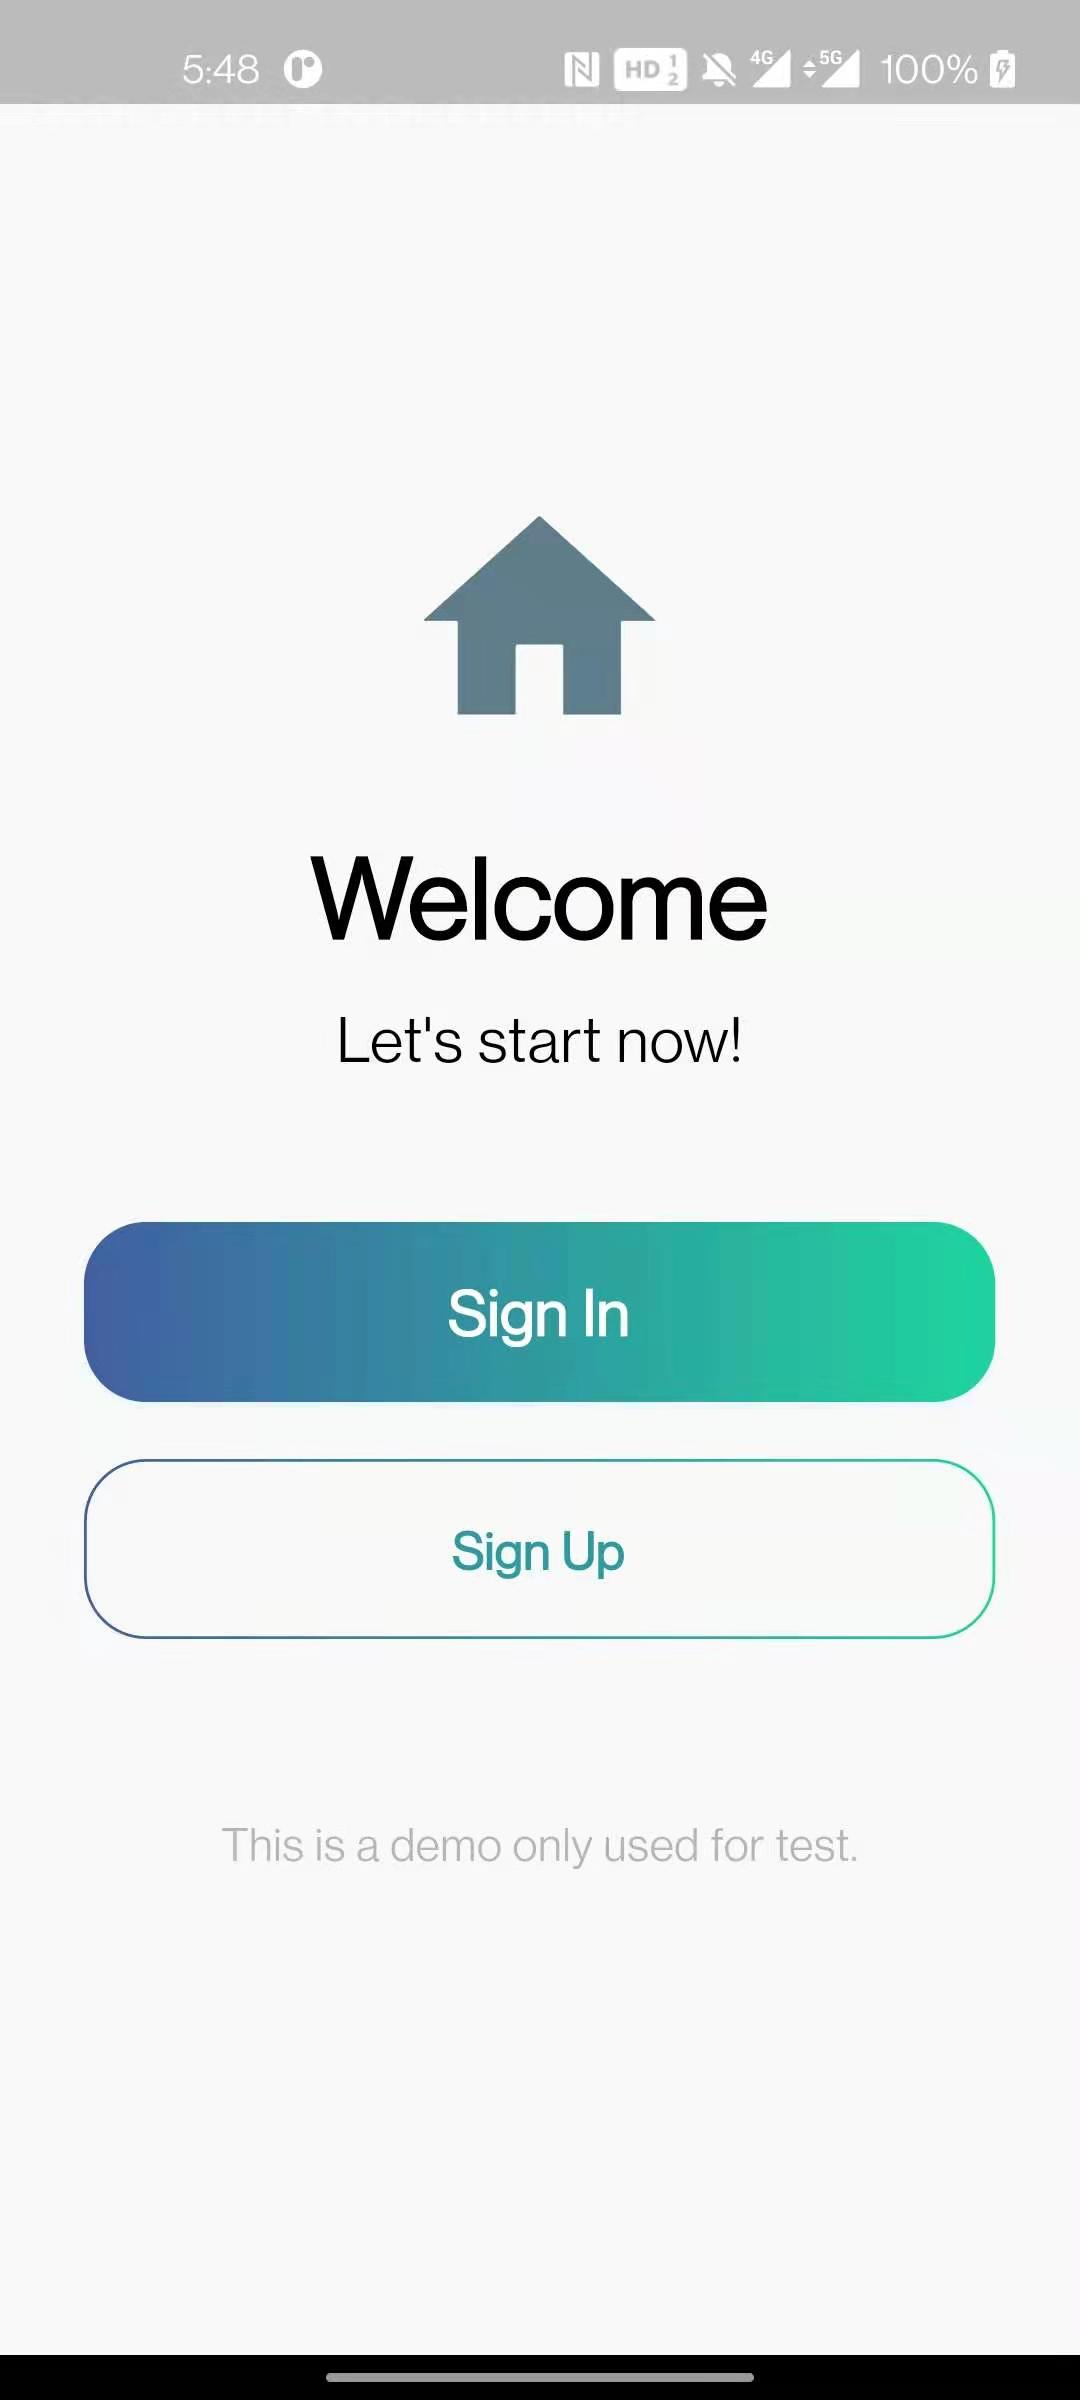
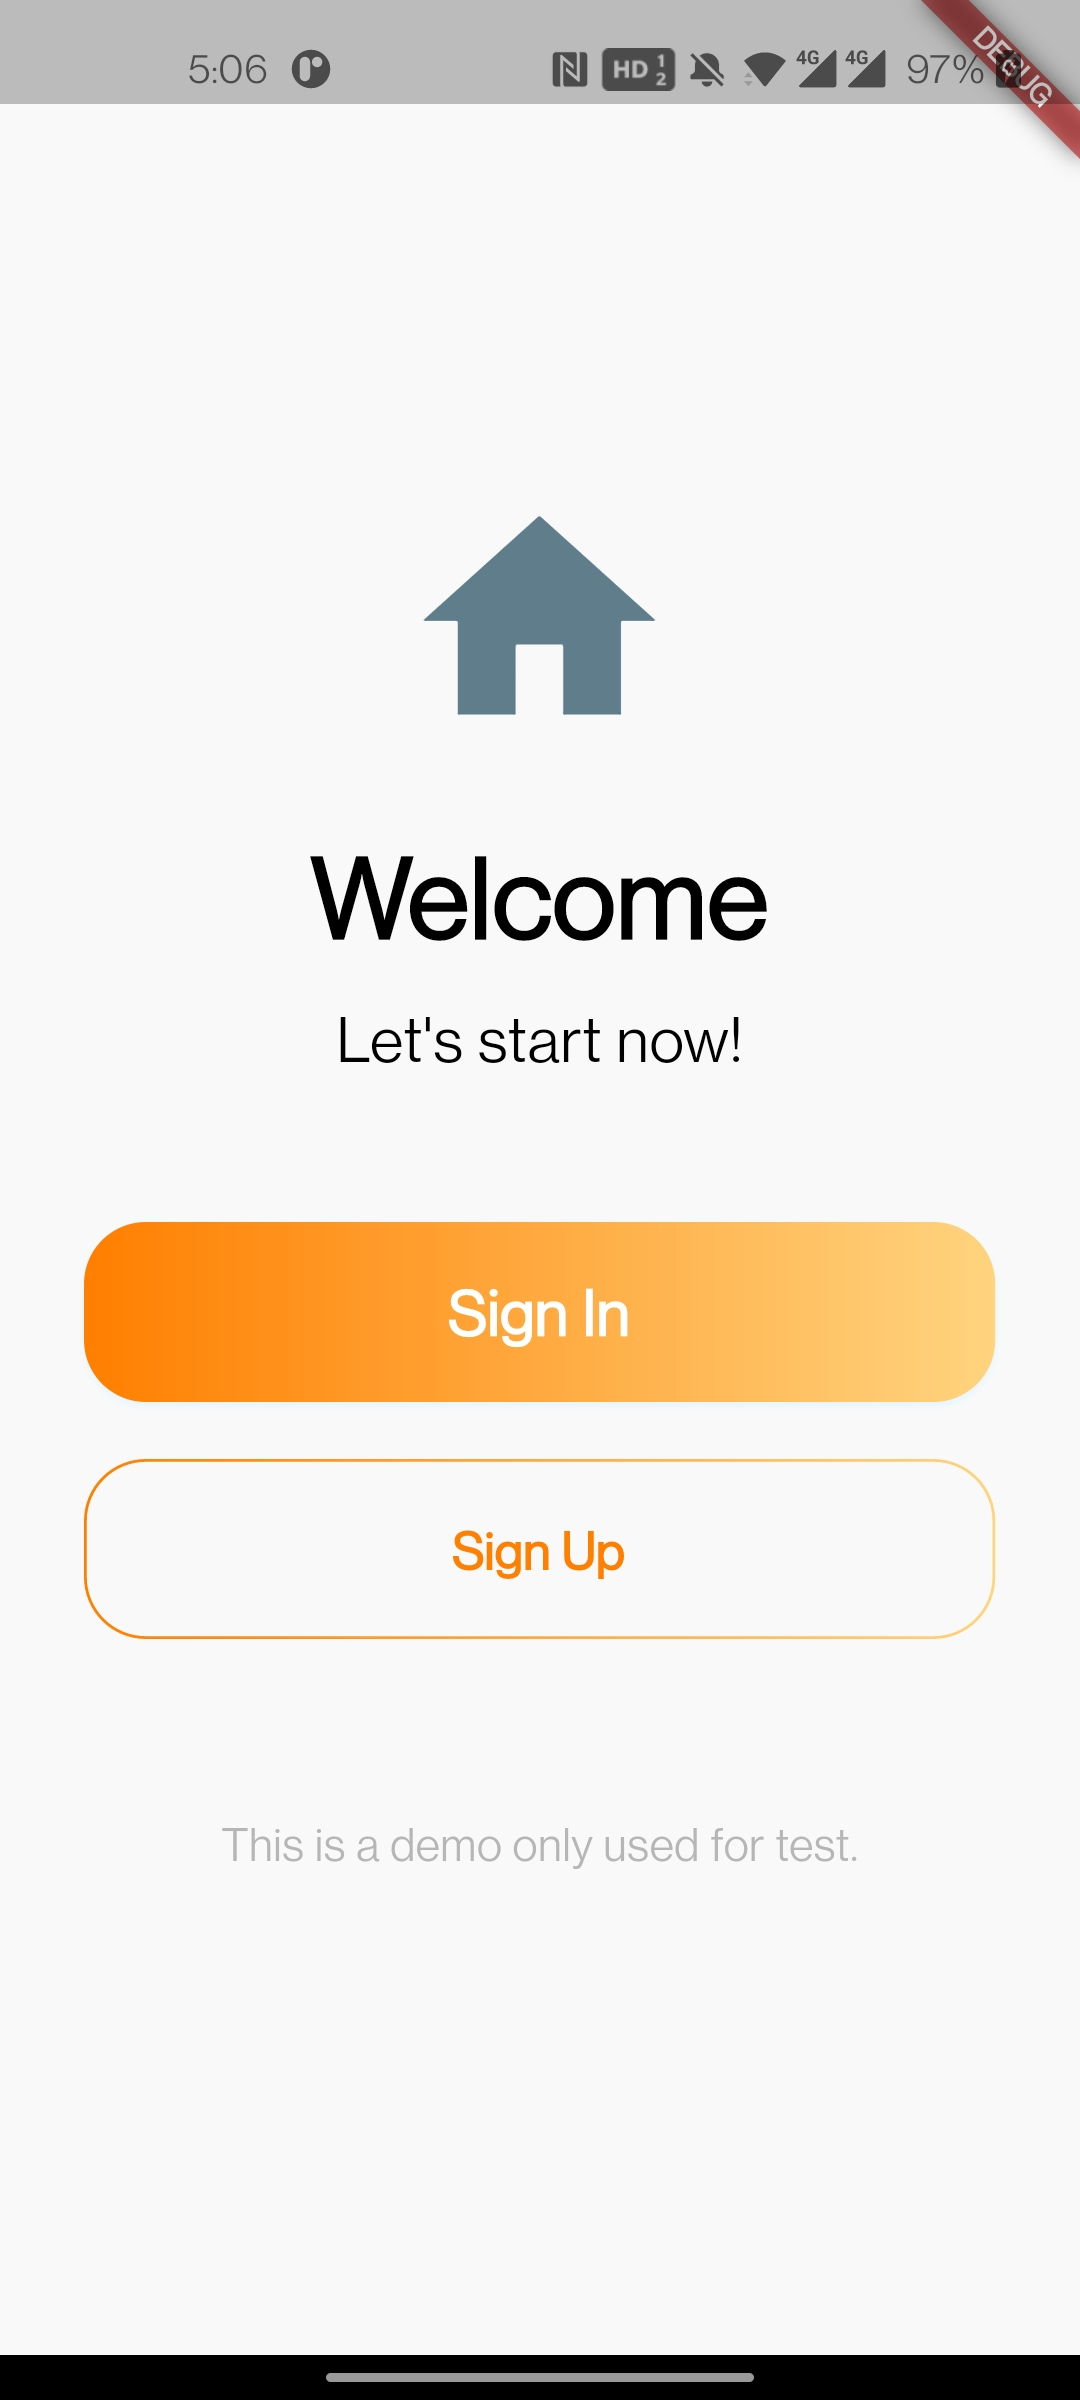
feat: add readme

diff --git a/lib/shared/widgets/gradient_background.dart b/lib/shared/widgets/gradient_background.dart
@@ -47,8 +47,8 @@ class GradientBackground extends StatelessWidget {
               end: Alignment.bottomRight,
               stops: [0.1, 0.9],
               colors: [
-                hexToColor('#405FA3'),
-                hexToColor('#1ED69D'),
+                ColorConstants.darkOrange,
+                ColorConstants.lightOrange,
               ],
             ),
           ),
@@ -61,10 +61,10 @@ class GradientBackground extends StatelessWidget {
             child: WaveWidget(
               config: CustomConfig(
                 gradients: [
-                  [hexToColor('#2BA99F'), hexToColor('#22CC9E')],
-                  [hexToColor('#2BA99F'), hexToColor('#3BCDAD')],
-                  [hexToColor('#3CC8AE'), hexToColor('#22C69E')],
-                  [hexToColor('#55D5B1'), hexToColor('#54D9B1')]
+                  [ColorConstants.darkOrange, ColorConstants.lightOrange],
+                  [ColorConstants.darkOrange, hexToColor('#FFD4AA')],
+                  [ColorConstants.lightOrange, hexToColor('#FFD4AA')],
+                  [hexToColor('#FF2A00'), hexToColor('#FFD4AA')]
                 ],
                 durations: [35000, 19440, 10800, 6000],
                 heightPercentages: [0.20, 0.23, 0.25, 0.30],

diff --git a/lib/shared/widgets/border_button.dart b/lib/shared/widgets/border_button.dart
@@ -24,8 +24,8 @@ class BorderButton extends StatelessWidget {
           gradient: gradient ??
               LinearGradient(
                 colors: [
-                  hexToColor('#405FA3'),
-                  hexToColor('#1ED69D'),
+                  ColorConstants.darkOrange,
+                  ColorConstants.lightOrange,
                 ],
               ),
         ),
@@ -59,7 +59,7 @@ class BorderButton extends StatelessWidget {
                     style: TextStyle(
                       fontSize: 18,
                       fontWeight: FontWeight.bold,
-                      color: hexToColor('#2F9AA0'),
+                      color: ColorConstants.darkOrange,
                     ),
                   )
                 else

diff --git a/lib/main.dart b/lib/main.dart
@@ -16,8 +16,8 @@ void configLoading() {
     ..radius = 10.0
     // ..progressColor = Colors.yellow
     ..backgroundColor = ColorConstants.lightGray
-    ..indicatorColor = hexToColor('#64DEE0')
-    ..textColor = hexToColor('#64DEE0')
+    ..indicatorColor = ColorConstants.darkOrange
+    ..textColor = ColorConstants.darkOrange
     // ..maskColor = Colors.red
     ..userInteractions = false
     ..dismissOnTap = false

diff --git a/lib/shared/widgets/gradient_button.dart b/lib/shared/widgets/gradient_button.dart
@@ -29,8 +29,8 @@ class GradientButton extends StatelessWidget {
         gradient: gradient ??
             LinearGradient(
               colors: <Color>[
-                hexToColor('#405FA3'),
-                hexToColor('#1ED69D'),
+                ColorConstants.darkOrange,
+                ColorConstants.lightOrange,
               ],
             ),
         borderRadius: BorderRadius.circular(22.0),

diff --git a/lib/shared/constants/colors.dart b/lib/shared/constants/colors.dart
@@ -1,6 +1,8 @@
 import 'package:flutter/material.dart';
 
 class ColorConstants {
+  static Color darkOrange = hexToColor('#FF7F00');
+  static Color lightOrange = hexToColor('#FFD47F');
   static Color lightScaffoldBackgroundColor = hexToColor('#F9F9F9');
   static Color darkScaffoldBackgroundColor = hexToColor('#2F2E2E');
   static Color secondaryAppColor = hexToColor('#22DDA6');

diff --git a/lib/shared/widgets/icon_title_item.dart b/lib/shared/widgets/icon_title_item.dart
@@ -51,7 +51,7 @@ class IconTitleItem extends StatelessWidget {
                   icon,
                   width: 25,
                   height: 25,
-                  color: ColorConstants.secondaryAppColor,
+                  color: ColorConstants.darkOrange,
                 ),
                 SizedBox(
                   width: drawablePadding,

diff --git a/ios/Runner/Assets.xcassets/LaunchImage.imageset/README.md b/ios/Runner/Assets.xcassets/LaunchImage.imageset/README.md
@@ -1,5 +1,84 @@
-# Launch Screen Assets
+# flutter_bloc_boilerplate
 
-You can customize the launch screen with your own desired assets by replacing the image files in this directory.
+**Language: [English](README.md), Chinese (this file).**
 
-You can also do it by opening your Flutter project's Xcode project with `open ios/Runner.xcworkspace`, selecting `Runner/Assets.xcassets` in the Project Navigator and dropping in the desired images.
+## Introduction
+
+During my study of Flutter, I have been using the flutter_bloc state management framework, so I want to write a flutter_bloc Starter project while learning, which can not only help myself learn, but also help others to quickly build the framework. Before building this framework, I searched many similar frameworks, and found that they were relatively simple, and none of them covered the common things that the project should have, so I sprouted the idea of writing one by myself. Let me introduce them one by one below.
+
+## Technology & Project Introduction
+
+Use Flutter 2.x to build a set of frameworks containing predefined folder structure, style themes, API access, state management, routing & dependencies, etc. The project structure is clear, and it can be easily used as a Flutter template project. Technologies used include but are not limited to [Flutter](https://flutter.cn/), [Dart](https://dart.dev/), [flutter_bloc](https://pub.dev/packages/flutter_bloc) Wait.
+
+<p align='center'>
+    <img src="https://github.com/KevinZhang19870314/flutter_bloc_boilerplate/blob/master/assets/screenshot/2.jpg" width="187" heght="333" />
+    <img src="https://github.com/KevinZhang19870314/flutter_bloc_boilerplate/blob/master/assets/screenshot/3.jpg" width="187" heght="333" />
+    <img src="https://github.com/KevinZhang19870314/flutter_bloc_boilerplate/blob/master/assets/screenshot/4.jpg" width="187" heght="333" />
+    <img src="https://github.com/KevinZhang19870314/flutter_bloc_boilerplate/blob/master/assets/screenshot/5.jpg" width="187" heght="333" />
+    <img src="https://github.com/KevinZhang19870314/flutter_bloc_boilerplate/blob/master/assets/screenshot/6.jpg" width="187" heght="333" />
+</p>
+
+## Installation & Use
+
+**Step 1:**
+
+Fork this project to your own warehouse:
+
+```
+git clone https://github.com/KevinZhang19870314/flutter_bloc_boilerplate.git
+```
+
+**Step 2:**
+
+Open the project folder with VS Code and execute the following command to install the dependency package:
+
+```
+flutter pub get
+```
+
+**Step 3:**
+
+Open the main.dart file in the lib folder, F5 or Ctrl + F5 to run the project, and then you can start developing and debugging.
+
+## Folder structure
+
+The following is the project folder structure (only the folders under lib are introduced)
+
+```
+lib/
+|- api-Global Restful api requests, including request interceptors, etc.
+   |- interceptor-interceptor, including request, response, err interception
+   |- api.dart-Restful api export file
+|- blocs-BLoC handles business logic
+   |- auth-The auth module handles business logic such as login & registration
+   |- home-home module loads user information, etc.
+   |- blocs.dart-BLoC export file
+|- models-Various structured entity classes, divided into request and response entities
+   |- models.dart-entity class export file
+|- modules-business module folder
+   |- auth-Login & Registration Module
+   |- home-Home module
+   |- splash-splash module
+   |- modules.dart-module export file
+|- routes-routing module
+   |- modules-routing configuration information for each module
+      |- i_app_route.dart-abstract routing class
+   |- app_routes.dart-route name
+   |- app_routes_factory.dart-routing factory class, processing various module routing configuration
+   |- route_path.dart-route name static class
+   |- routes.dart-route export file
+|- Shared-Global shared folders, including static variables, global services, utils, global Widgets, etc.
+   |- shared.dart-global shared export file
+|- theme-theme folder
+|- app.dart-global app file
+|- main.dart-main entry file
+```
+
+## Other
+
+In the writing process, because it involves the call of Restful api, here I used the free test api provided by [REQ|RES](https://reqres.in/).
+
+The users used in the test are as follows:
+  
+    Email: "eve.holt@reqres.in",
+    Password: "pistol"

diff --git a/README.zh-cn.md b/README.zh-cn.md
@@ -1,0 +1,84 @@
+# flutter_bloc_boilerplate
+
+**语言: [英语](README.md), 中文 (这个文件).**
+
+## 介绍
+
+在我学习Flutter期间，我一直使用的是flutter_bloc状态管理框架，于是想一边学习一边写一个flutter_bloc的Starter项目，不仅可以帮助自己学习，也可以帮助他人快速搭建框架。搭建这个框架之前我搜索了很多类似的框架，发现都比较简单，没有一个涵盖项目该有的通用的东西，于是萌发了自己写一个的想法。下面让我逐一介绍。
+
+## 技术 & 项目介绍
+
+使用Flutter 2.x搭建的一套包含预定义的文件夹结构、样式主题、API访问、状态管理、路由 & 依赖等的框架。项目结构清晰，可以很方便的作为Flutter的模板项目来使用。使用技术包括但不限于[Flutter](https://flutter.cn/)、[Dart](https://dart.dev/)、[flutter_bloc](https://pub.dev/packages/flutter_bloc)等。
+
+<p align='center'>
+    <img src="https://github.com/KevinZhang19870314/flutter_bloc_boilerplate/blob/master/assets/screenshot/2.jpg" width="187" heght="333" />
+    <img src="https://github.com/KevinZhang19870314/flutter_bloc_boilerplate/blob/master/assets/screenshot/3.jpg" width="187" heght="333" />
+    <img src="https://github.com/KevinZhang19870314/flutter_bloc_boilerplate/blob/master/assets/screenshot/4.jpg" width="187" heght="333" />
+    <img src="https://github.com/KevinZhang19870314/flutter_bloc_boilerplate/blob/master/assets/screenshot/5.jpg" width="187" heght="333" />
+    <img src="https://github.com/KevinZhang19870314/flutter_bloc_boilerplate/blob/master/assets/screenshot/6.jpg" width="187" heght="333" />
+</p>
+
+## 安装 & 使用
+
+**Step 1:**
+
+Fork本项目到自己的仓库：
+
+```
+git clone https://github.com/KevinZhang19870314/flutter_bloc_boilerplate.git
+```
+
+**Step 2:**
+
+用VS Code打开项目文件夹，执行以下命令安装依赖包：
+
+```
+flutter pub get
+```
+
+**Step 3:**
+
+打开lib文件夹下的main.dart文件，F5 或者 Ctrl + F5运行项目，然后就可以开始开发调试了。
+
+## 文件夹结构
+
+下面是项目文件夹结构(只介绍lib下面的文件夹)
+
+```
+lib/
+|- api - 全局Restful api请求，包括请求拦截器等
+   |- interceptor - 拦截器，包括request、response、err拦截
+   |- api.dart - Restful api导出文件
+|- blocs - BLoC处理业务逻辑
+   |- auth - auth模块处理登录&注册等业务逻辑
+   |- home - home模块加载用户信息等
+   |- blocs.dart - BLoC导出文件
+|- models - 各种结构化实体类，分为request和response两种类型的实体
+   |- models.dart - 实体类导出文件
+|- modules - 业务模块文件夹
+   |- auth - 登录&注册模块
+   |- home - 首页模块
+   |- splash - splash模块
+   |- modules.dart - 模块导出文件
+|- routes - 路由模块
+   |- modules - 每个模块的路由配置信息
+      |- i_app_route.dart - 抽象路由类
+   |- app_routes.dart - 路由名称
+   |- app_routes_factory.dart - 路由工厂类，处理各种模块路由配置
+   |- route_path.dart - 路由名称静态类
+   |- routes.dart - 路由导出文件
+|- Shared - 全局共享文件夹，包括静态变量、全局services、utils、全局Widget等
+   |- shared.dart - 全局共享导出文件
+|- theme - 主题文件夹
+|- app.dart - 全局app文件
+|- main.dart - main入口文件
+```
+
+## 其他
+
+在编写过程中，因为涉及到Restful api的调用，这里我使用了[REQ|RES](https://reqres.in/)提供的免费测试api。
+
+测试使用的用户如下:
+  
+    邮箱: "eve.holt@reqres.in",
+    密码: "pistol"
